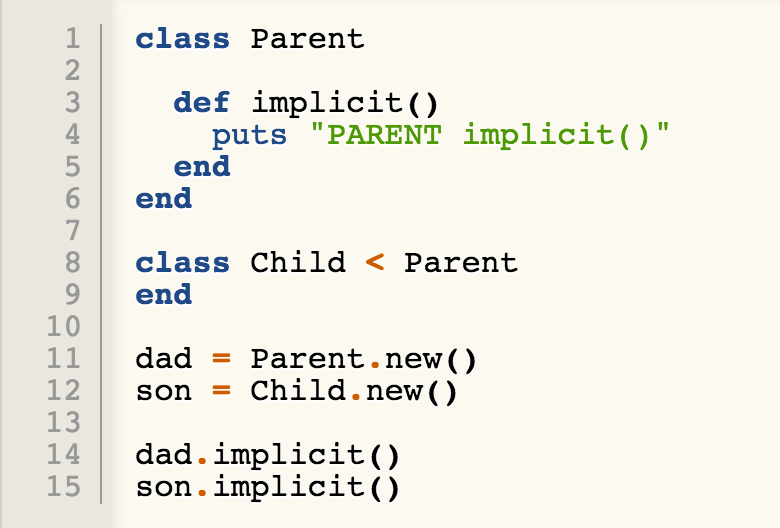
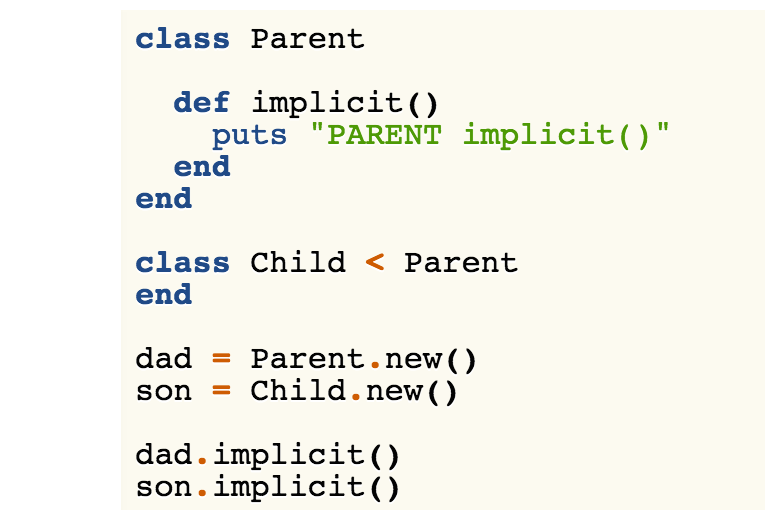
fixing img css for blog entry
fixing the image display for t6
blog entry and also typos

Changed region(s): [[0.0, 0.0, 0.1538, 1.0]]

diff --git a/blog/t6-oop-concepts.html b/blog/t6-oop-concepts.html
@@ -25,9 +25,9 @@
   <h4>Feb. 21, 2015</h4>
 
   <section>
-    <p>
-      <img source = "../imgs/inheritance.png" />
-    </p>
+
+      <img src= "../imgs/inheritance.png" id="inheritance"/>
+
 
     <p>
       In the example above the Class child inherits the class Parent. As a consequence even though there is no method implicit() in child when you run the code it will return "PARENT implicit()" twice.
@@ -42,12 +42,12 @@
     </p>
 
     <p>
-      You can get into trouble using inheritance, especially once you start chaining many classes with inheritance. Instead of using inheritance we can instead use composition. For example:
+      You can get into trouble using inheritance, especially once you start chaining many classes with inheritance. Instead of using inheritance we can use composition. For example:
     </p>
 
-    <p>
-      <img source = "../imgs/composition.png" />
-    </p>
+
+      <img src = "../imgs/composition.png" id="composition"/>
+
 
     <p>
       Here we have an instance of the class Other at the initialization of Child. This way we guarantee that every method of Child will have access to the methods of the Other class through the instance variable @other.
@@ -57,16 +57,16 @@
       Another way to go by this is by using modules. For example:
     </p>
 
-     <p>
-      <img source = "../imgs/module.png" />
-    </p>
+
+      <img src = "../imgs/module.png" id="module"/>
+
 
     <p>
       In this example we see that modules are a different type of object and start with the module module_name syntax. By using the include module_name in a class we give it access to the methods of the module. This is an easy way to bring in methods that are repeated often in your program.
     </p>
 
     <p>
-      It is often tempting to always use inheritance as it is a fast and easy way to drag methods from another class. This can start to become problematic when chains of classes are used with inheritance. When possible it is best practice to use composition and modules.
+      It is often tempting to use inheritance as it is a fast and easy way to drag methods from another class. This can start to become problematic when chains of classes are used with inheritance. When possible it is best practice to use composition and modules.
     </p>
 
     <p>

diff --git a/stylesheets/blog-stylesheet.css b/stylesheets/blog-stylesheet.css
@@ -44,6 +44,24 @@ img#example_class {
   width: 20em;
 }
 
+img#inheritance {
+  float: center;
+  height: 20em;
+  width: 20em;
+}
+
+img#composition {
+  float: center;
+  height: 40em;
+  width: 20em;
+}
+
+img#module {
+  float: center;
+  height: 35em;
+  width: 20em;
+}
+
 
 
 
